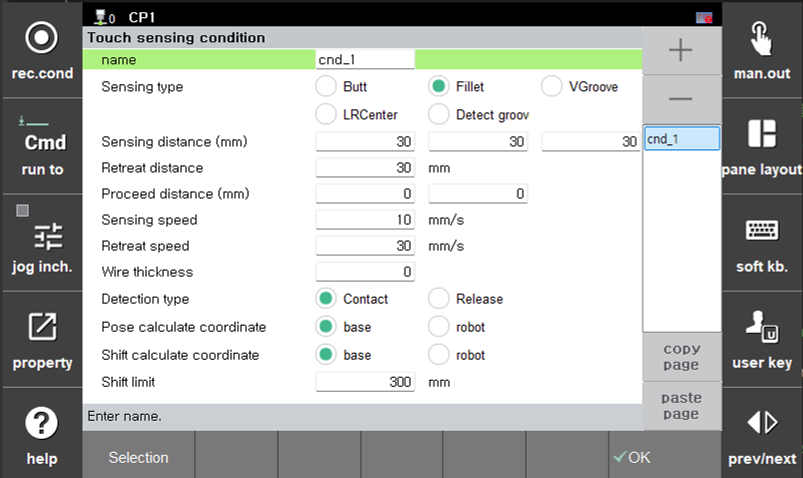
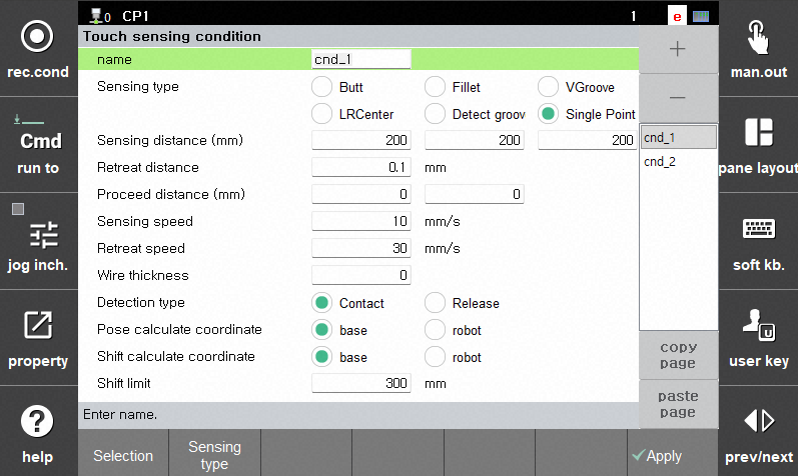
터치센싱 한 점 타입 추가(영문)

diff --git a/book.md b/book.md
@@ -2653,7 +2653,7 @@ When using the master mode, a mster pose can be saved through reference teaching
 
 ### (1) Touch Sensing Types
 
-The touch sensing supports a total of 5-types, as shown in [Figure 8.2.1] (Butt, Fillet, V-groove, LR Center, and Groove Detections).
+The touch sensing supports a total of 6-types, as shown in [Figure 8.2.1] (Butt, Fillet, V-groove, LR Center, Groove Detections, and Single point).
 
 ![](../../_assets/8_2_2.png)<br>
 *Figure 8.2.2. Touch Sensing Types*
@@ -2697,7 +2697,7 @@ Assuming the condition 1 set for Fillet, condition 2 set for Butt, and condition
 | VGroove |	1 |	X |	O	|X | |
 | LRCen |	1	|O |	O	|X |  |	
 | DetectGroove |	2 |	O |	O |	O | Proceed Distance 1</br> Retreat Distance 1 </br> criteria |
-
+|Single Point|    1 |    O |    O |    O | |
 </center>
 
 
@@ -2813,7 +2813,14 @@ You can set conditions such as sensing distance, retreat distance, proceed dista
 ![](../../_assets/8_2_8.png)<br>
 *Figure 8.2.8. Touch Sensing Sequence - Butt*   
 
+#### [4] Single point
 
+- Examples of Command
+```python
+  touchsen cnd=1, crd="tool", dir="+z", pose=P10
+```  
+  - Senses only in the specified single direction.
+---
 
 ### (4) Sensing Direction Angle Transformation
 
@@ -3827,6 +3834,10 @@ lvs <function argument> cnd=<condition Number>, seam=<profile number to be sense
       </td>
     </tr>
     <tr>
+      <td style="text-align:left">check_seam</td>
+      <td style="text-align:left">Saves the pose recognized for the distance [mm] set in opt while moving in the +ToolX and -ToolX directions to sp.(<a href="https://hrbook-hrc.web.app/#/view/doc-arc-weld/ko/8_Application_function/5_LVS_tracking/7_tracking_monitoring?cont_model=${cont_model}">8.5.6 LVS tracking func.</a>)</td>
+    </tr>
+    <tr>
       <td style="text-align:left">track</td>
       <td style="text-align:left">
         After the search is completed, the 'arcon' and 'weaving on' actions must be performed before executing. <br>
@@ -3883,8 +3894,8 @@ lvs <function argument> cnd=<condition Number>, seam=<profile number to be sense
          1 on success, 0 on failure; a warning is generated upon failure, and the lvs step is marked as completed.
         2. Seam Finding
          1 on success, 0 on failure; the lvs step is marked as completed upon failure.
-        3. Scan
-         1 on success, 0 on failure; the lvs step is marked as completed upon failure.
+        3. Check seam
+         It is set to 1 when tracking starts and progresses by 5mm or more. It is set to 0 if error E32702 occurs, which happens when the LVS fails to recognize a seam beyond a certain section during tracking. (Available upon restart by Job)
         4. Tracking
          The currently tracked step number is saved. This is useful when configuring a restart as a Job.
       </td>
@@ -4128,9 +4139,9 @@ For calibration, register the seam as a Lap joint in the LVS controller software
 Set the registered number in the seam argument of the lvs command.
 {% endhint %}
 
-![](../../_assets/8_5_7_lvs_autocalib.png)<br>
-*Figure 8.5.7. LVS Auto Calibration*   
-</br>
+![](../../_assets/8_5_7_lvs_autocalib.png)  
+*Figure 8.5.7. LVS Auto Calibration*  
+
 ---
 
 ### (3) Preparations
@@ -4143,6 +4154,7 @@ Automatic Calibration involves motions such as front/back, left/right, roll dire
 {% endhint %}
 
 ![](../../_assets/8_5_7_lvs_autocalib_2.png)<br>
+
 ---
 
 ### (4) Execution
@@ -4519,25 +4531,40 @@ The configuration of the lvs command should be set as follows:
     end
 ```
 
-When the search command is executed, an invalid point is identified as the starting point, saved in sp, and then the data buffer is filled while moving to the starting point.
+When the search command is executed, it operates as follows depending on the option:
 
-Afterward, arc welding is performed while tracking the weld line in real time.
+(1) Detect: Finds an invalid point as a starting point, saves it to sp, and then fills the data buffer while moving to the starting point.
+
+(2) Above Laser: Fills the data buffer while the TCP moves to the laser position.
+
+After the search, arc welding is performed while tracking the weld line in real time.
 
 ![](../../_assets/8_5_17.png)<br>
 *그림 8.5.17. lvs search and tracking process*   
 </br>
 
-The sp of the lvs track command stores the TCP position where the laser can be placed at the last weld location.
-If an error occurs because the LVS fails to recognize the weld line multiple times, you can make it restart as follows.
+### (2) Teaching method for cases where tracking is interrupted due to an error in a section where the LVS is continuously unable to recognize during welding
+
+The sp of the lvs track command stores the TCP position where the laser can be located at the last welding position.
+
+If an error occurs because the LVS fails to recognize the weld line multiple times, it can be made to restart as follows.
+
+The _lvs.last_tracking_sno system variable stores the step number being tracked.
 
 ![](../../_assets/8_5_18.png)<br>
-*그림 8.5.18. Manual restart method for unrecognized seam error*   
+*Figure 8.5.18. Manual restart method for unrecognized seam error*   
 </br>
 
-### (2) How to Use Tracking with an Offset Value
+You can use the check_seam function to find a section that is recognized more efficiently than the method above.
 
-If you want to track with an offset from the seam (instead of exactly following the welding line), you can specify the offset values for side and height in the `lvs` command in mm units. The offset is applied in the tool coordinate system direction.
+This function finds a recognized point within the distance set in opt and saves it as a pose in sp.
 
+![](../../_assets/8_5_20_check_seam_function.png)<br>
+*Figure 8.5.19. Description of check_seam function*   
+</br>
+
+
+### (3) How to use tracking with specified offset amount
 
 ```python
     move L, spd=60%, accu=0, tool=1
@@ -4559,7 +4586,11 @@ If you want to track with an offset from the seam (instead of exactly following 
 * When using weaving, the stickout length increases depending on the angle and amplitude. To compensate for this, set the height with a negative value during both search and track operations.
 {% endhint %}
 
-### (3) LVS Monitoring
+### (4) LVS Monitoring
+
+You can switch screens for LVS monitoring by following the sequence `[(Right Panel) Creative Adjustments] - Select - LVS Follow`.
+
+In monitoring, you can check the following items.
 
 ![](../../_assets/8_5_19_tracking_monitoring.png)<br>
 *Figure 8.5.19. LVS Monitoring*   

diff --git a/8_Application_function/2_Touch_sensing/README.md b/8_Application_function/2_Touch_sensing/README.md
@@ -15,7 +15,7 @@ When using the master mode, a mster pose can be saved through reference teaching
 
 ### (1) Touch Sensing Types
 
-The touch sensing supports a total of 5-types, as shown in [Figure 8.2.1] (Butt, Fillet, V-groove, LR Center, and Groove Detections).
+The touch sensing supports a total of 6-types, as shown in [Figure 8.2.1] (Butt, Fillet, V-groove, LR Center, Groove Detections, and Single point).
 
 ![](../../_assets/8_2_2.png)<br>
 *Figure 8.2.2. Touch Sensing Types*
@@ -59,7 +59,7 @@ Assuming the condition 1 set for Fillet, condition 2 set for Butt, and condition
 | VGroove |	1 |	X |	O	|X | |
 | LRCen |	1	|O |	O	|X |  |	
 | DetectGroove |	2 |	O |	O |	O | Proceed Distance 1</br> Retreat Distance 1 </br> criteria |
-
+|Single Point|    1 |    O |    O |    O | |
 </center>
 
 
@@ -175,7 +175,14 @@ You can set conditions such as sensing distance, retreat distance, proceed dista
 ![](../../_assets/8_2_8.png)<br>
 *Figure 8.2.8. Touch Sensing Sequence - Butt*   
 
+#### [4] Single point
 
+- Examples of Command
+```python
+  touchsen cnd=1, crd="tool", dir="+z", pose=P10
+```  
+  - Senses only in the specified single direction.
+---
 
 ### (4) Sensing Direction Angle Transformation
 

diff --git a/8_Application_function/5_LVS_tracking/3_calibration.md b/8_Application_function/5_LVS_tracking/3_calibration.md
@@ -53,9 +53,9 @@ For calibration, register the seam as a Lap joint in the LVS controller software
 Set the registered number in the seam argument of the lvs command.
 {% endhint %}
 
-![](../../_assets/8_5_7_lvs_autocalib.png)<br>
-*Figure 8.5.7. LVS Auto Calibration*   
-</br>
+![](../../_assets/8_5_7_lvs_autocalib.png)  
+*Figure 8.5.7. LVS Auto Calibration*  
+
 ---
 
 ### (3) Preparations
@@ -68,6 +68,7 @@ Automatic Calibration involves motions such as front/back, left/right, roll dire
 {% endhint %}
 
 ![](../../_assets/8_5_7_lvs_autocalib_2.png)<br>
+
 ---
 
 ### (4) Execution
